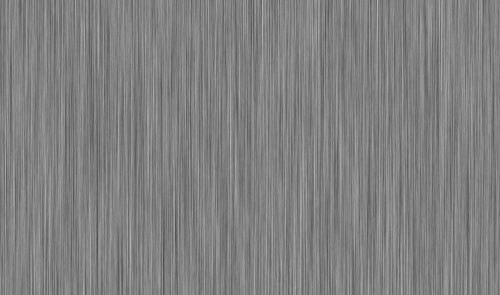
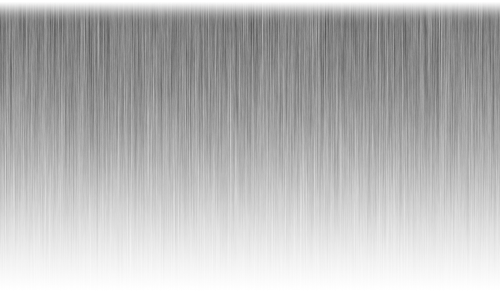
Added background images to byens puls.

diff --git a/stylesheets/ByensPuls.css b/stylesheets/ByensPuls.css
@@ -9,10 +9,13 @@ body, html{
 #trains{
     height: 50%;
     width: 100%;
+    background: url('../img/bg-flip.png') bottom left repeat-x;
 }
 #stations{
     height: 50%;
     width: 100%;
+    background-image: url('../img/bg.png');
+    background-repeat: repeat-x;
     transform-origin: 50% 0%;
     transform: perspective(600px) /*translateZ(-150px)*/ rotateX(45deg);
     -webkit-transform-origin: 50% 0%;
